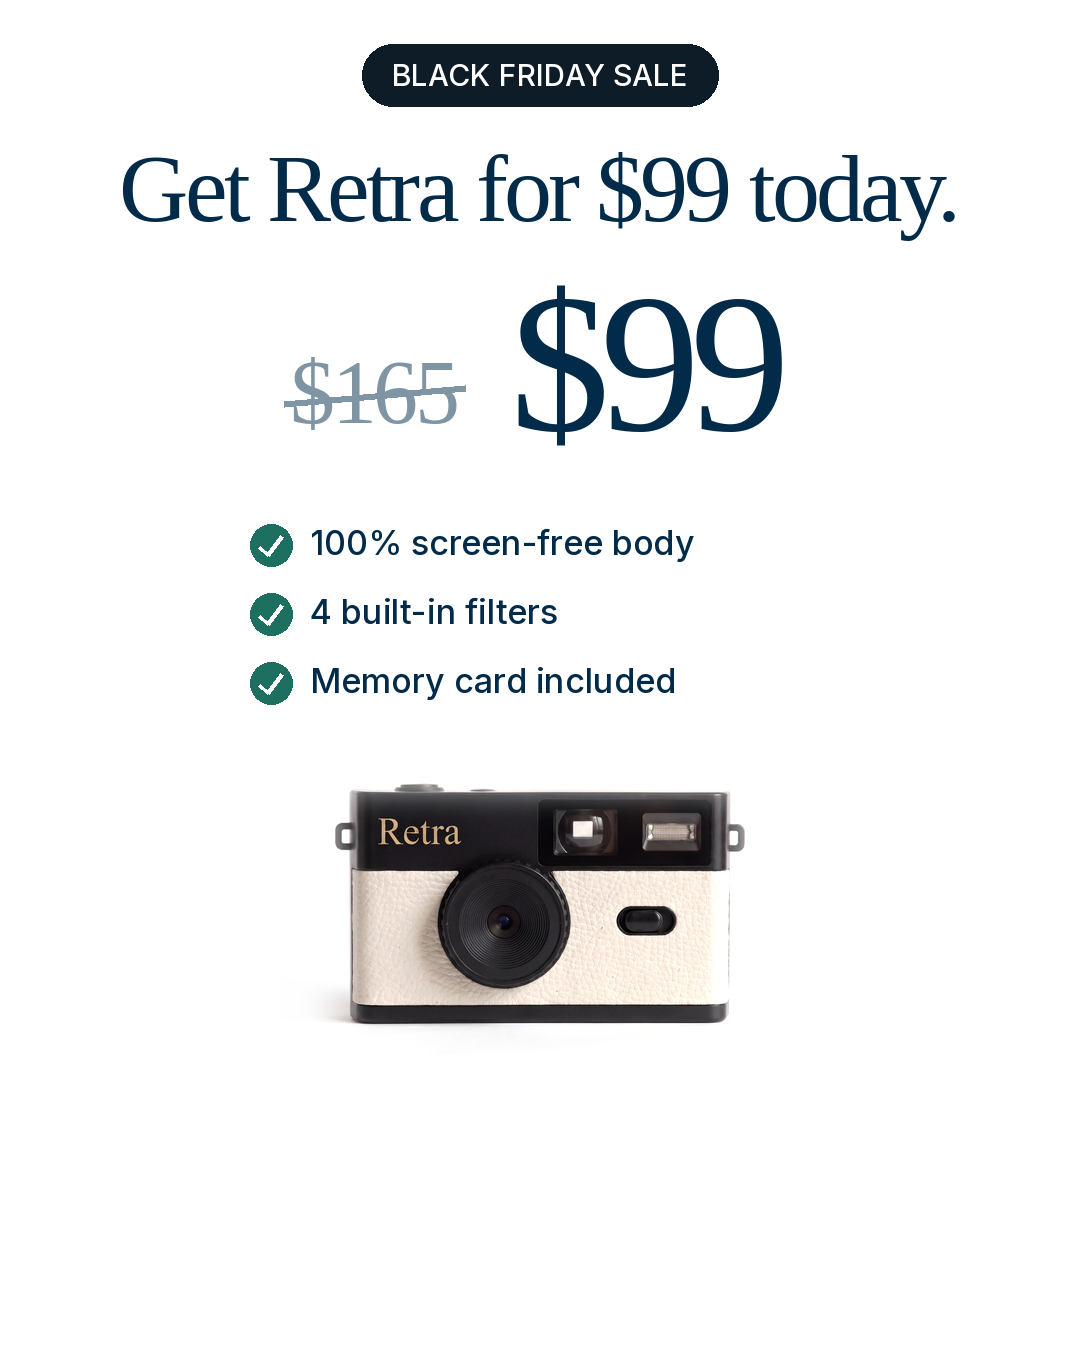
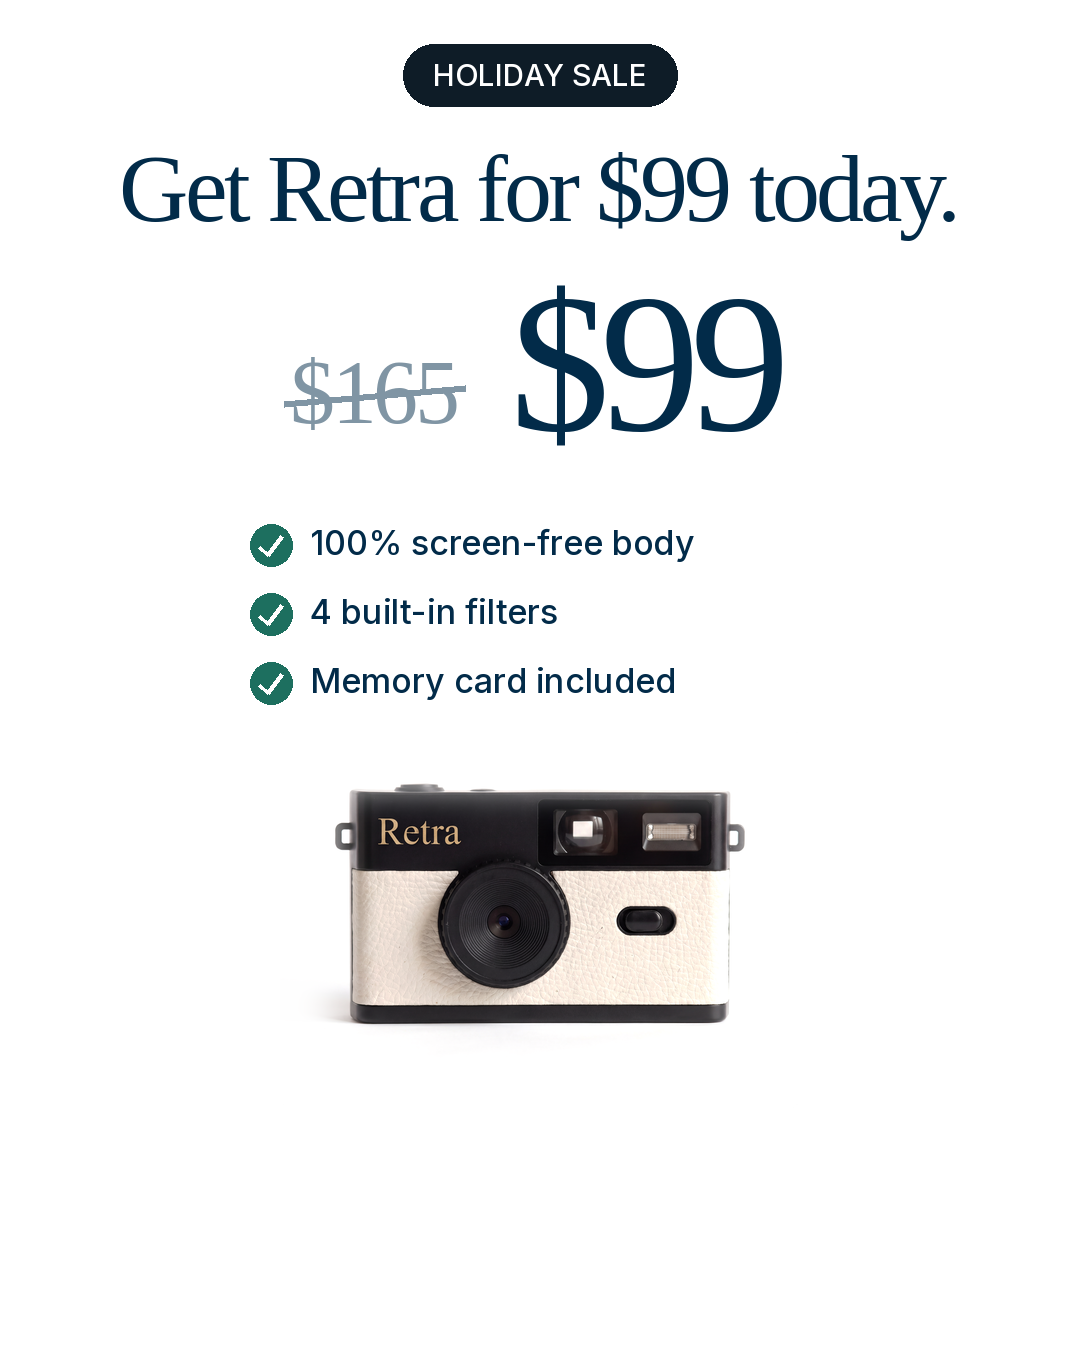
Retra W49: Black Friday -> Holiday Sale across copy, labels and statics
Claude-Session: https://claude.ai/code/session_01Mp8pTs9zpTh5aGe4znSQmT

Changed region(s): [[0.3361, 0.0311, 0.6722, 0.0933]]

diff --git a/ads/brands/retra/weeks/2026-W49-angles/README.md b/ads/brands/retra/weeks/2026-W49-angles/README.md
@@ -98,3 +98,8 @@ Bundle gifts (Sam 2026-11-27): Buy 2 Get 1 Free + free woven strap ($29 value); 
 ($79). O1-O7 copy revised by StefanBrain to include the gifts; O2/O3 draw the gifts with FREE value pills; new O8/O9 are
 festive flat lays (T11). `gift_render.py`: gift_strap (from the store photo, assets/retra/product/gifts/), gift_bag_t2
 (rendered; the store's bag image returns 502 on the CDN), flat_b2g1, flat_b3g2_t2. Sheet: `output/_sheet_offers_gifts_4x5.jpg`.
+
+## Holiday Sale, not Black Friday (Sam 2026-11-27)
+Retra isn't running Black Friday. StefanBrain rewrote all 47 Black Friday lines (on-image + Meta text) for the Holiday
+Sale; angle/persona labels and file names updated (O1/O4-O7 now `*_holiday-sale-offer_*`, 66 `*_klik-holiday-sale-sale_*`).
+Rebuilt: 52, 66, 67, 77, G1, G4, N1, O1, O4, O5, O6, O7. Still open: older statics show $165 / 40% (store: $200 / 50%).
